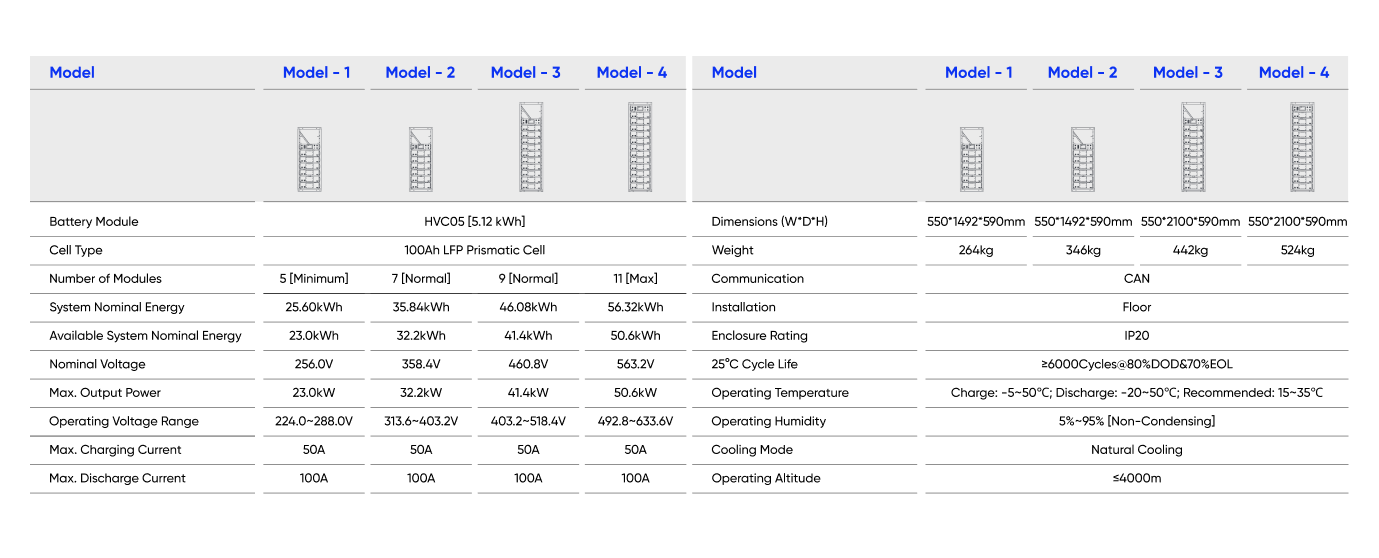
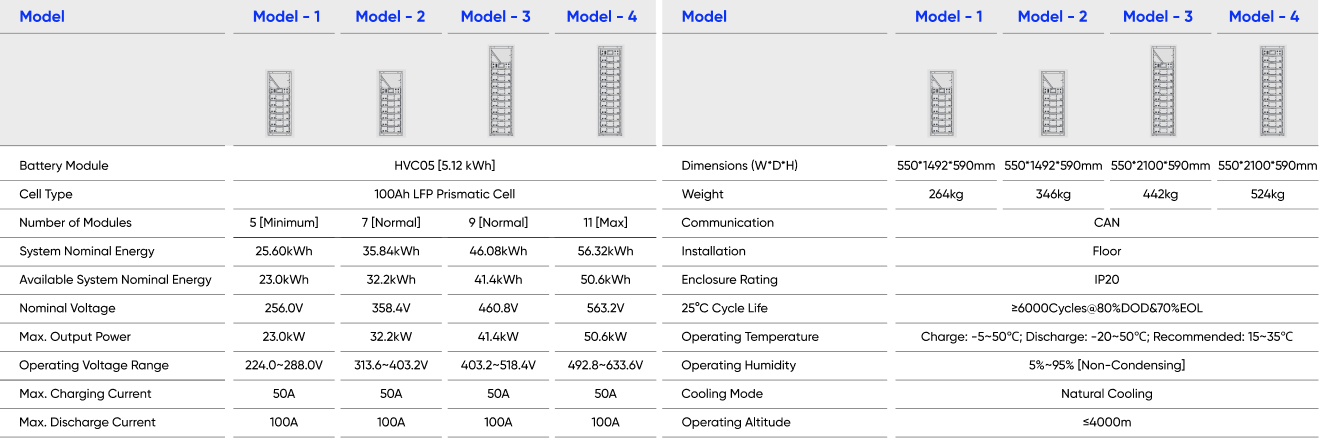
Change UI and Description for Product Section

Changed region(s): [[0.0, 0.0297, 1.0, 0.9201], [0.0, 0.9498, 1.0, 1.0], [0.0311, 0.1187, 0.0933, 0.1484]]

diff --git a/src/Components/TechnicalSpecs.tsx b/src/Components/TechnicalSpecs.tsx
@@ -1,6 +1,9 @@
 import React, { useState } from "react";
 import SpecModal from "./Technical";
-
+import VOLT_HVC_Props from "../assets/VOLT_HVC_Props.png";
+import VOLT_HVD_Props from "../assets/VOLT_HVD_Props.png";
+import VOLT_LVS_Props from "../assets/VOLT_LVS_Props.png";
+import VOLT_LVW_Props from "../assets/VOLT_LVW_Props.png";
 type SpecItem = {
   title: string;
   value: string;
@@ -11,7 +14,9 @@ type TechnicalSpecsProps = {
   specs: SpecItem[];
   data: SpecGroup[];
   title: string;
+  productId: number; // Add productId prop
 };
+
 type SpecGroup = {
   title: string;
   items: {
@@ -19,13 +24,36 @@ type SpecGroup = {
     value: string;
   }[];
 };
+
+// Sample image URLs for specific product IDs
+const productImages = {
+  2: VOLT_HVC_Props,
+  3: VOLT_HVD_Props,
+  4: VOLT_LVS_Props,
+  5: VOLT_LVW_Props, 
+};
+
 const TechnicalSpecs: React.FC<TechnicalSpecsProps> = ({
   specs,
   data,
   title,
+  productId,
 }) => {
   const [openModal, setModalOpen] = useState(false);
-  console.log(data);
+  const [openImagePopup, setImagePopupOpen] = useState(false);
+  
+  // Check if this product should show an image popup
+  const shouldShowImagePopup = [2, 3, 4, 5].includes(productId);
+  
+  // Handle the click on the "Read More" button
+  const handleReadMoreClick = () => {
+    if (shouldShowImagePopup) {
+      setImagePopupOpen(true);
+    } else {
+      setModalOpen(true);
+    }
+  };
+
   return (
     <div className="px-24">
       <h2 className="text-3xl font-bold text-center text-blue-600 mb-6">
@@ -33,7 +61,7 @@ const TechnicalSpecs: React.FC<TechnicalSpecsProps> = ({
       </h2>
       <div className="grid grid-cols-1 sm:grid-cols-2 md:grid-cols-3 lg:grid-cols-4 gap-4">
         {specs.map((spec, index) =>
-          index != specs.length - 1 ? (
+          index !== specs.length - 1 ? (
             <div
               key={index}
               className="bg-[#FAFAFA] rounded-sm p-2 py-4 flex flex-col space-y-2 max-w-[280px]"
@@ -46,11 +74,11 @@ const TechnicalSpecs: React.FC<TechnicalSpecsProps> = ({
                 </div>
               </div>
             </div>
-          ) : null,
+          ) : null
         )}
         <div
-          className="bg-[#FAFAFA] rounded-sm p-4 flex flex-col space-y-2 max-w-[280px]"
-          onClick={() => setModalOpen(true)}
+          className="bg-[#FAFAFA] rounded-sm p-4 flex flex-col space-y-2 max-w-[280px] cursor-pointer hover:bg-gray-100"
+          onClick={handleReadMoreClick}
         >
           <div className="flex flex-row w-full justify-start items-center gap-4 text-blue-600 w-full h-full">
             <div className="text-lg font-medium text-gray-700 flex flex-col items-start justify-center">
@@ -65,19 +93,69 @@ const TechnicalSpecs: React.FC<TechnicalSpecsProps> = ({
         </div>
       </div>
       
+      {/* Regular specs modal for non-image products */}
       <SpecModal 
         isOpen={openModal}
         onClose={() => setModalOpen(false)}
         data={data}
         title={title}
       />
+      
+      {/* Image popup for specific products */}
+      {shouldShowImagePopup && (
+        <ImageSpecModal 
+          isOpen={openImagePopup}
+          onClose={() => setImagePopupOpen(false)}
+          imageUrl={productImages[productId as keyof typeof productImages]}
+          title={title}
+        />
+      )}
+      
       <div className="mt-6 flex justify-center gap-4">
         <button className="bg-blue-600 hover:bg-blue-700 text-white font-semibold py-2 px-6 rounded-sm">
-          GET VOLT-MAX
+          GET {title}
         </button>
         <button className="border border-blue-600 text-blue-600 hover:bg-blue-100 font-semibold py-2 px-6 rounded-sm">
           DOWNLOAD BROCHURE
         </button>
+      </div>
+    </div>
+  );
+};
+
+// New component for image-based spec popups
+interface ImageSpecModalProps {
+  isOpen: boolean;
+  onClose: () => void;
+  imageUrl: string;
+  title: string;
+}
+
+const ImageSpecModal: React.FC<ImageSpecModalProps> = ({
+  isOpen,
+  onClose,
+  imageUrl,
+  title,
+}) => {
+  if (!isOpen) return null;
+
+  return (
+    <div className="fixed inset-0 bg-black bg-opacity-40 z-50 flex items-center justify-center font-gilroy">
+      <div className="relative bg-white w-full max-w-5xl rounded-xl shadow-lg p-4 overflow-auto max-h-[90vh]">
+        <button
+          onClick={onClose}
+          className="absolute top-4 right-4 bg-blue-600 text-white rounded-full w-8 h-8 flex items-center justify-center"
+        >
+          ✕
+        </button>
+        <h2 className="text-3xl font-bold text-gray-900 mb-6 font-gilroy">{title} </h2>
+        <div className="flex justify-center items-center">
+          <img 
+            src={imageUrl} 
+            alt={`${title} Technical Specifications`} 
+            className="max-w-full max-h-[70vh]" 
+          />
+        </div>
       </div>
     </div>
   );

diff --git a/src/Components/Product.tsx b/src/Components/Product.tsx
@@ -613,31 +613,31 @@ export default function ProductsCatalog() {
 
   return (
     <main className="flex flex-col w-full gap-4 font-[Akshar]">
-<section className="flex flex-col md:flex-row items-center justify-between px-8 md:px-16 py-16 bg-white gap-4 max-w-7xl mx-auto">
-<div className="md:w-1/2 space-y-6">
-          <h2 className="text-4xl font-bold text-blue-600">
-            Products Catalogue
-          </h2>
-          <p className="text-gray-700 font-gilroy text-[16px]">
-            Voltra's Battery Energy Storage Systems (BESS) provide reliable,
-            scalable solutions designed to optimize energy management for both
-            commercial and residential applications. With advanced technology
-            and high-performance batteries, Voltra's BESS helps improve grid
-            stability, enhance energy efficiency, and support the integration of
-            renewable energy sources. Our products are engineered for durability
-            and long-term savings, making them an essential component in the
-            transition to a cleaner, more sustainable energy future.
-          </p>
-          <button className="px-6 py-3 bg-blue-600 text-white font-semibold rounded-lg shadow-md hover:bg-blue-700 transition">
-            DOWNLOAD BROCHURE
-          </button>
-        </div>
-        <div className="md:w-1/2 flex justify-center items-center mt-8 md:mt-8">
-          <div className="w-full h-64 flex items-center justify-center">
-            <img src={product_main} alt="Product" className="w-full" />
-          </div>
-        </div>
-      </section>
+<section className="w-full bg-white py-16">
+  <div className="container mx-auto flex flex-col md:flex-row items-center">
+    <div className="w-full md:w-1/2 md:pr-12 px-6 md:px-12">
+      <h2 className="text-4xl font-bold text-blue-600 mb-6">
+        Products Catalogue
+      </h2>
+      <p className="text-gray-700 font-gilroy text-[16px] mb-6">
+        Voltra's Battery Energy Storage Systems (BESS) provide reliable,
+        scalable solutions designed to optimize energy management for both
+        commercial and residential applications. With advanced technology
+        and high-performance batteries, Voltra's BESS helps improve grid
+        stability, enhance energy efficiency, and support the integration of
+        renewable energy sources. Our products are engineered for durability
+        and long-term savings, making them an essential component in the
+        transition to a cleaner, more sustainable energy future.
+      </p>
+      <button className="px-6 py-3 bg-blue-600 text-white font-semibold rounded-lg shadow-md hover:bg-blue-700 transition">
+        DOWNLOAD BROCHURE
+      </button>
+    </div>
+    <div className="w-full md:w-1/2 mt-8 md:mt-0 px-6 md:px-12">
+      <img src={product_main} alt="Product" className="w-full object-contain" />
+    </div>
+  </div>
+</section>
 
       
       <section className="px-8 py-16">

diff --git a/src/Components/Technical.tsx b/src/Components/Technical.tsx
@@ -39,21 +39,14 @@ const SpecModal: React.FC<SpecModalProps> = ({
               <div className="text-blue-600  font-semibold text-lg mb-2">
                 {data[0].title}
               </div>
-              <div className="space-y-1 w-full font-gilroy">
-                {data[0].items.map((item, itemIndex) => (
-                  <div
-                    key={itemIndex}
-                    className="flex justify-center gap-2 w-full"
-                  >
-                    <span className="w-1/2 underline underline-offset-4">
-                      {item.label}
-                    </span>
-                    <span className="w-1/2 underline underline-offset-4">
-                      {item.value}
-                    </span>
-                  </div>
-                ))}
-              </div>
+              <div className="space-y-1">
+  {data[0].items.map((item, itemIndex) => (
+    <div key={itemIndex} className="flex justify-between">
+      <span>{item.label}</span>
+      <span>{item.value}</span>
+    </div>
+  ))}
+</div>
             </div>
             <div className="px-4">
               <div className="text-blue-600 font-semibold text-lg mb-2">
